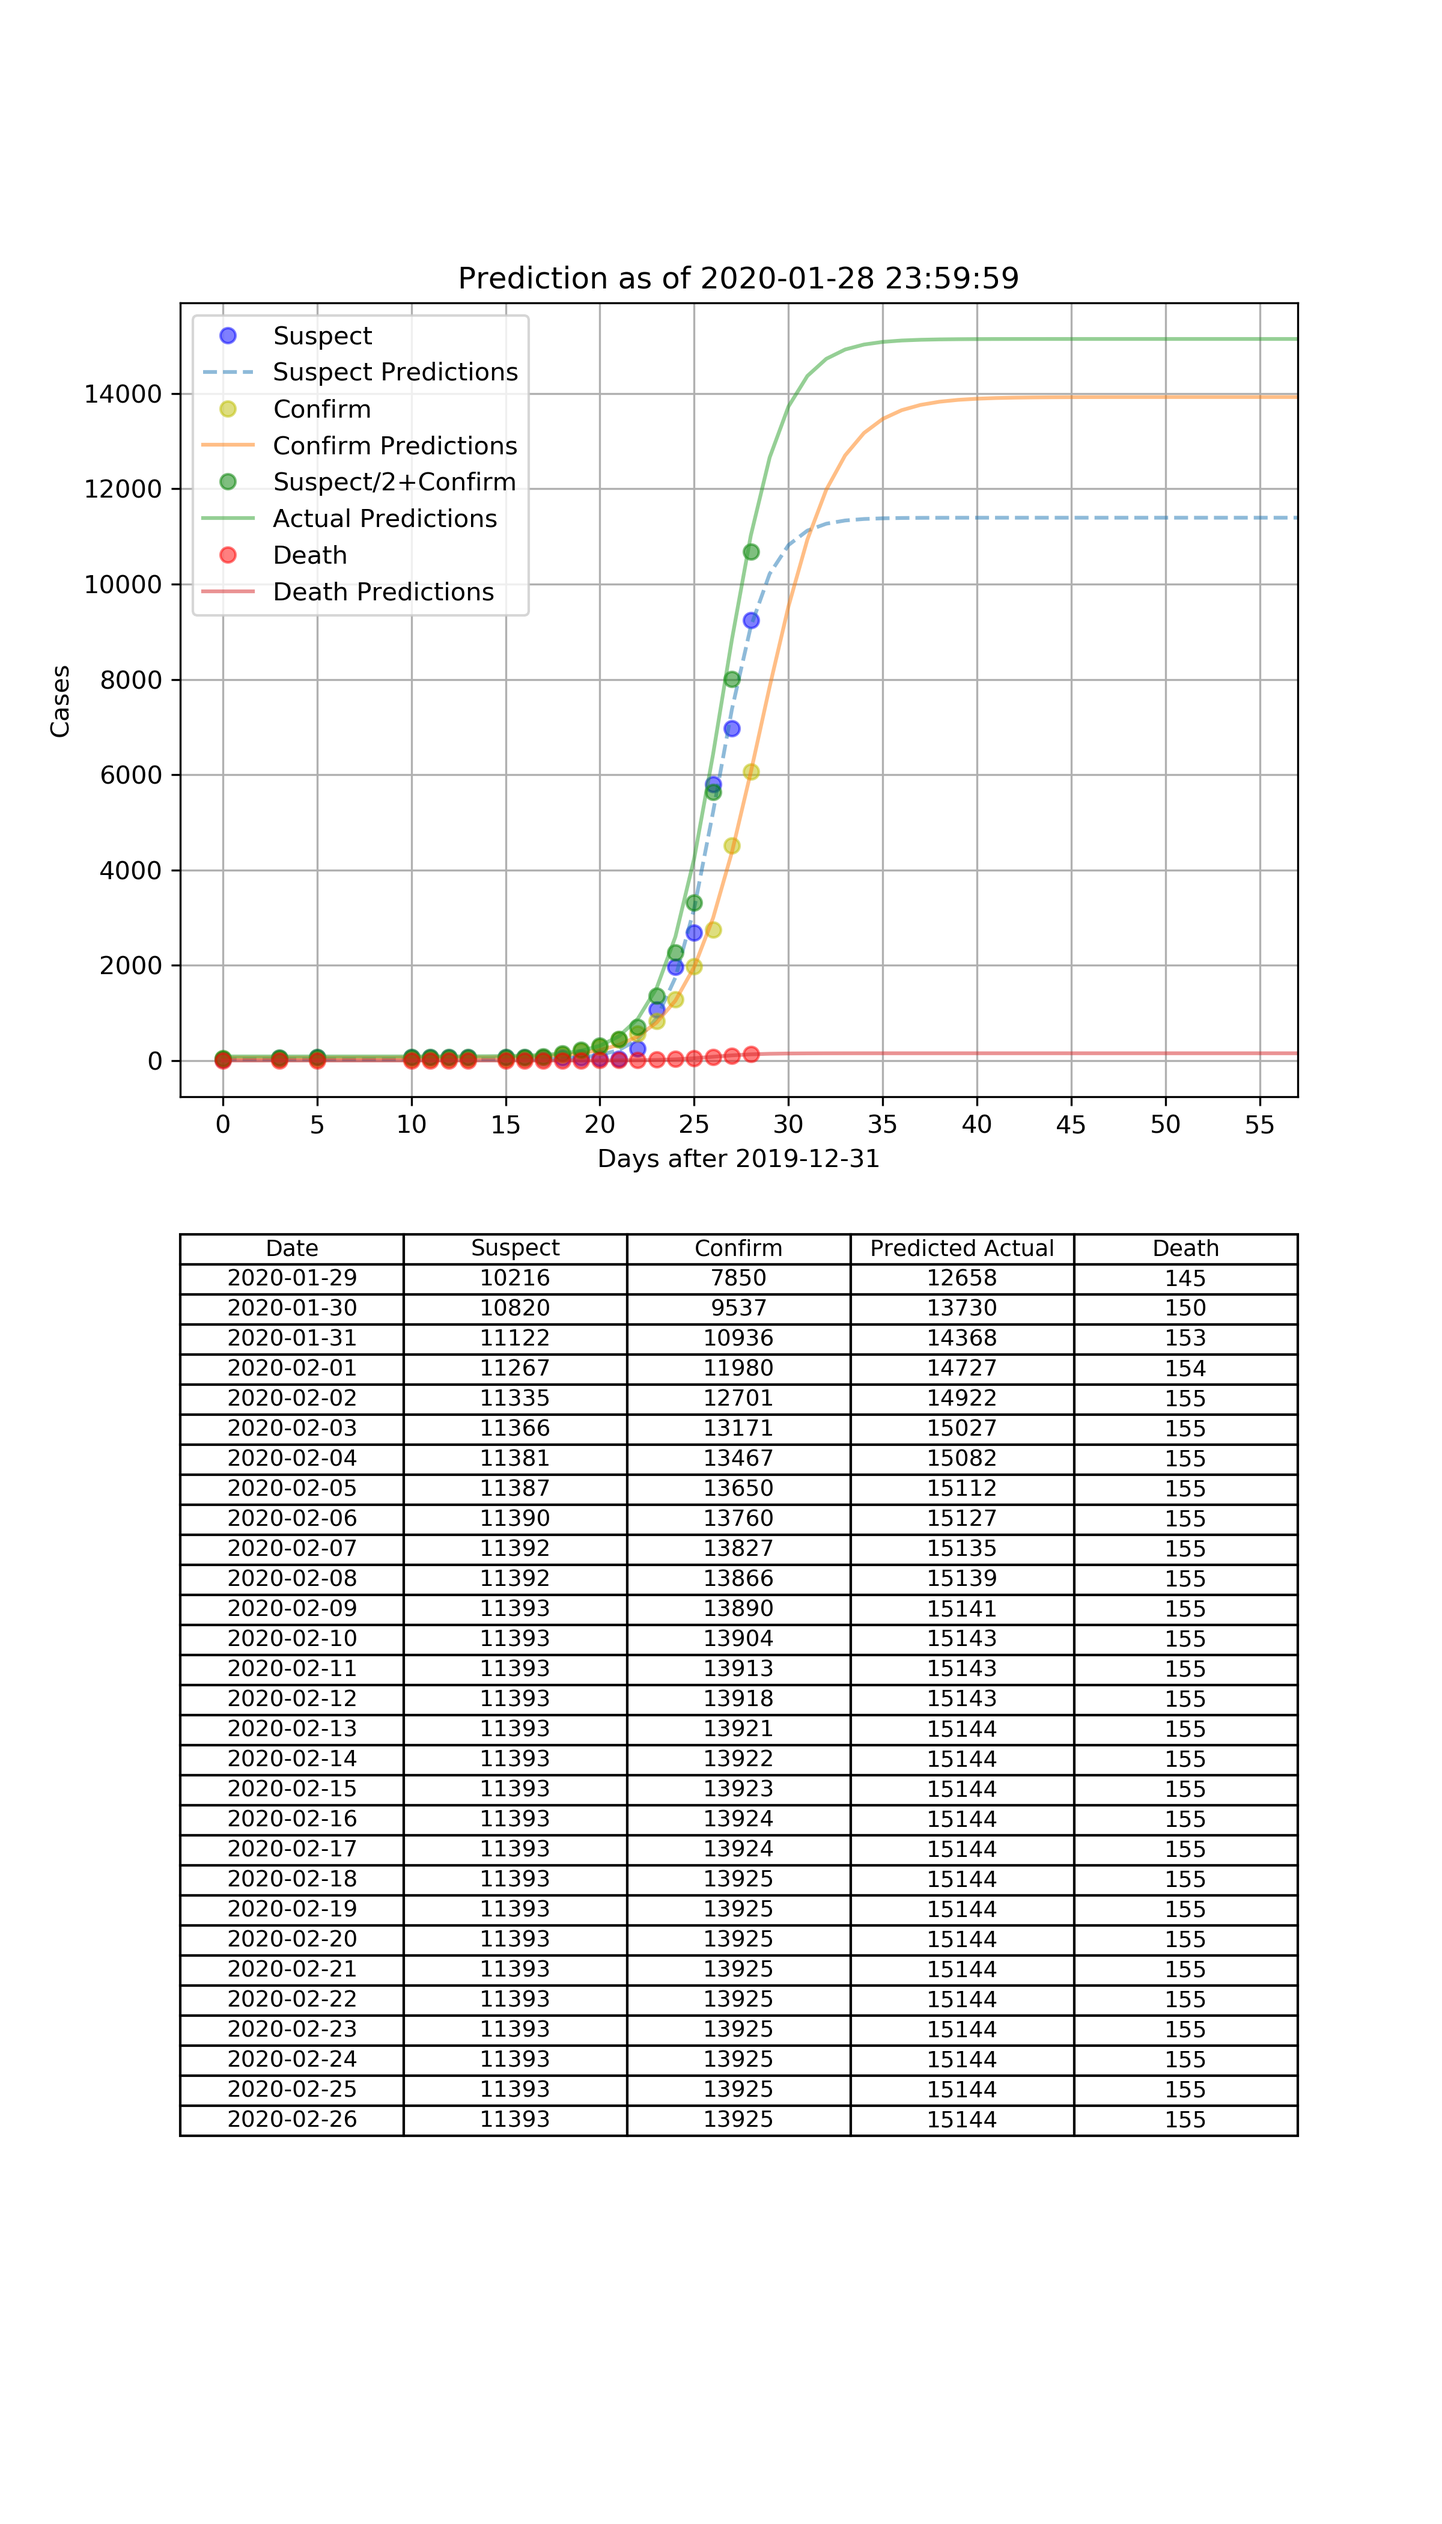
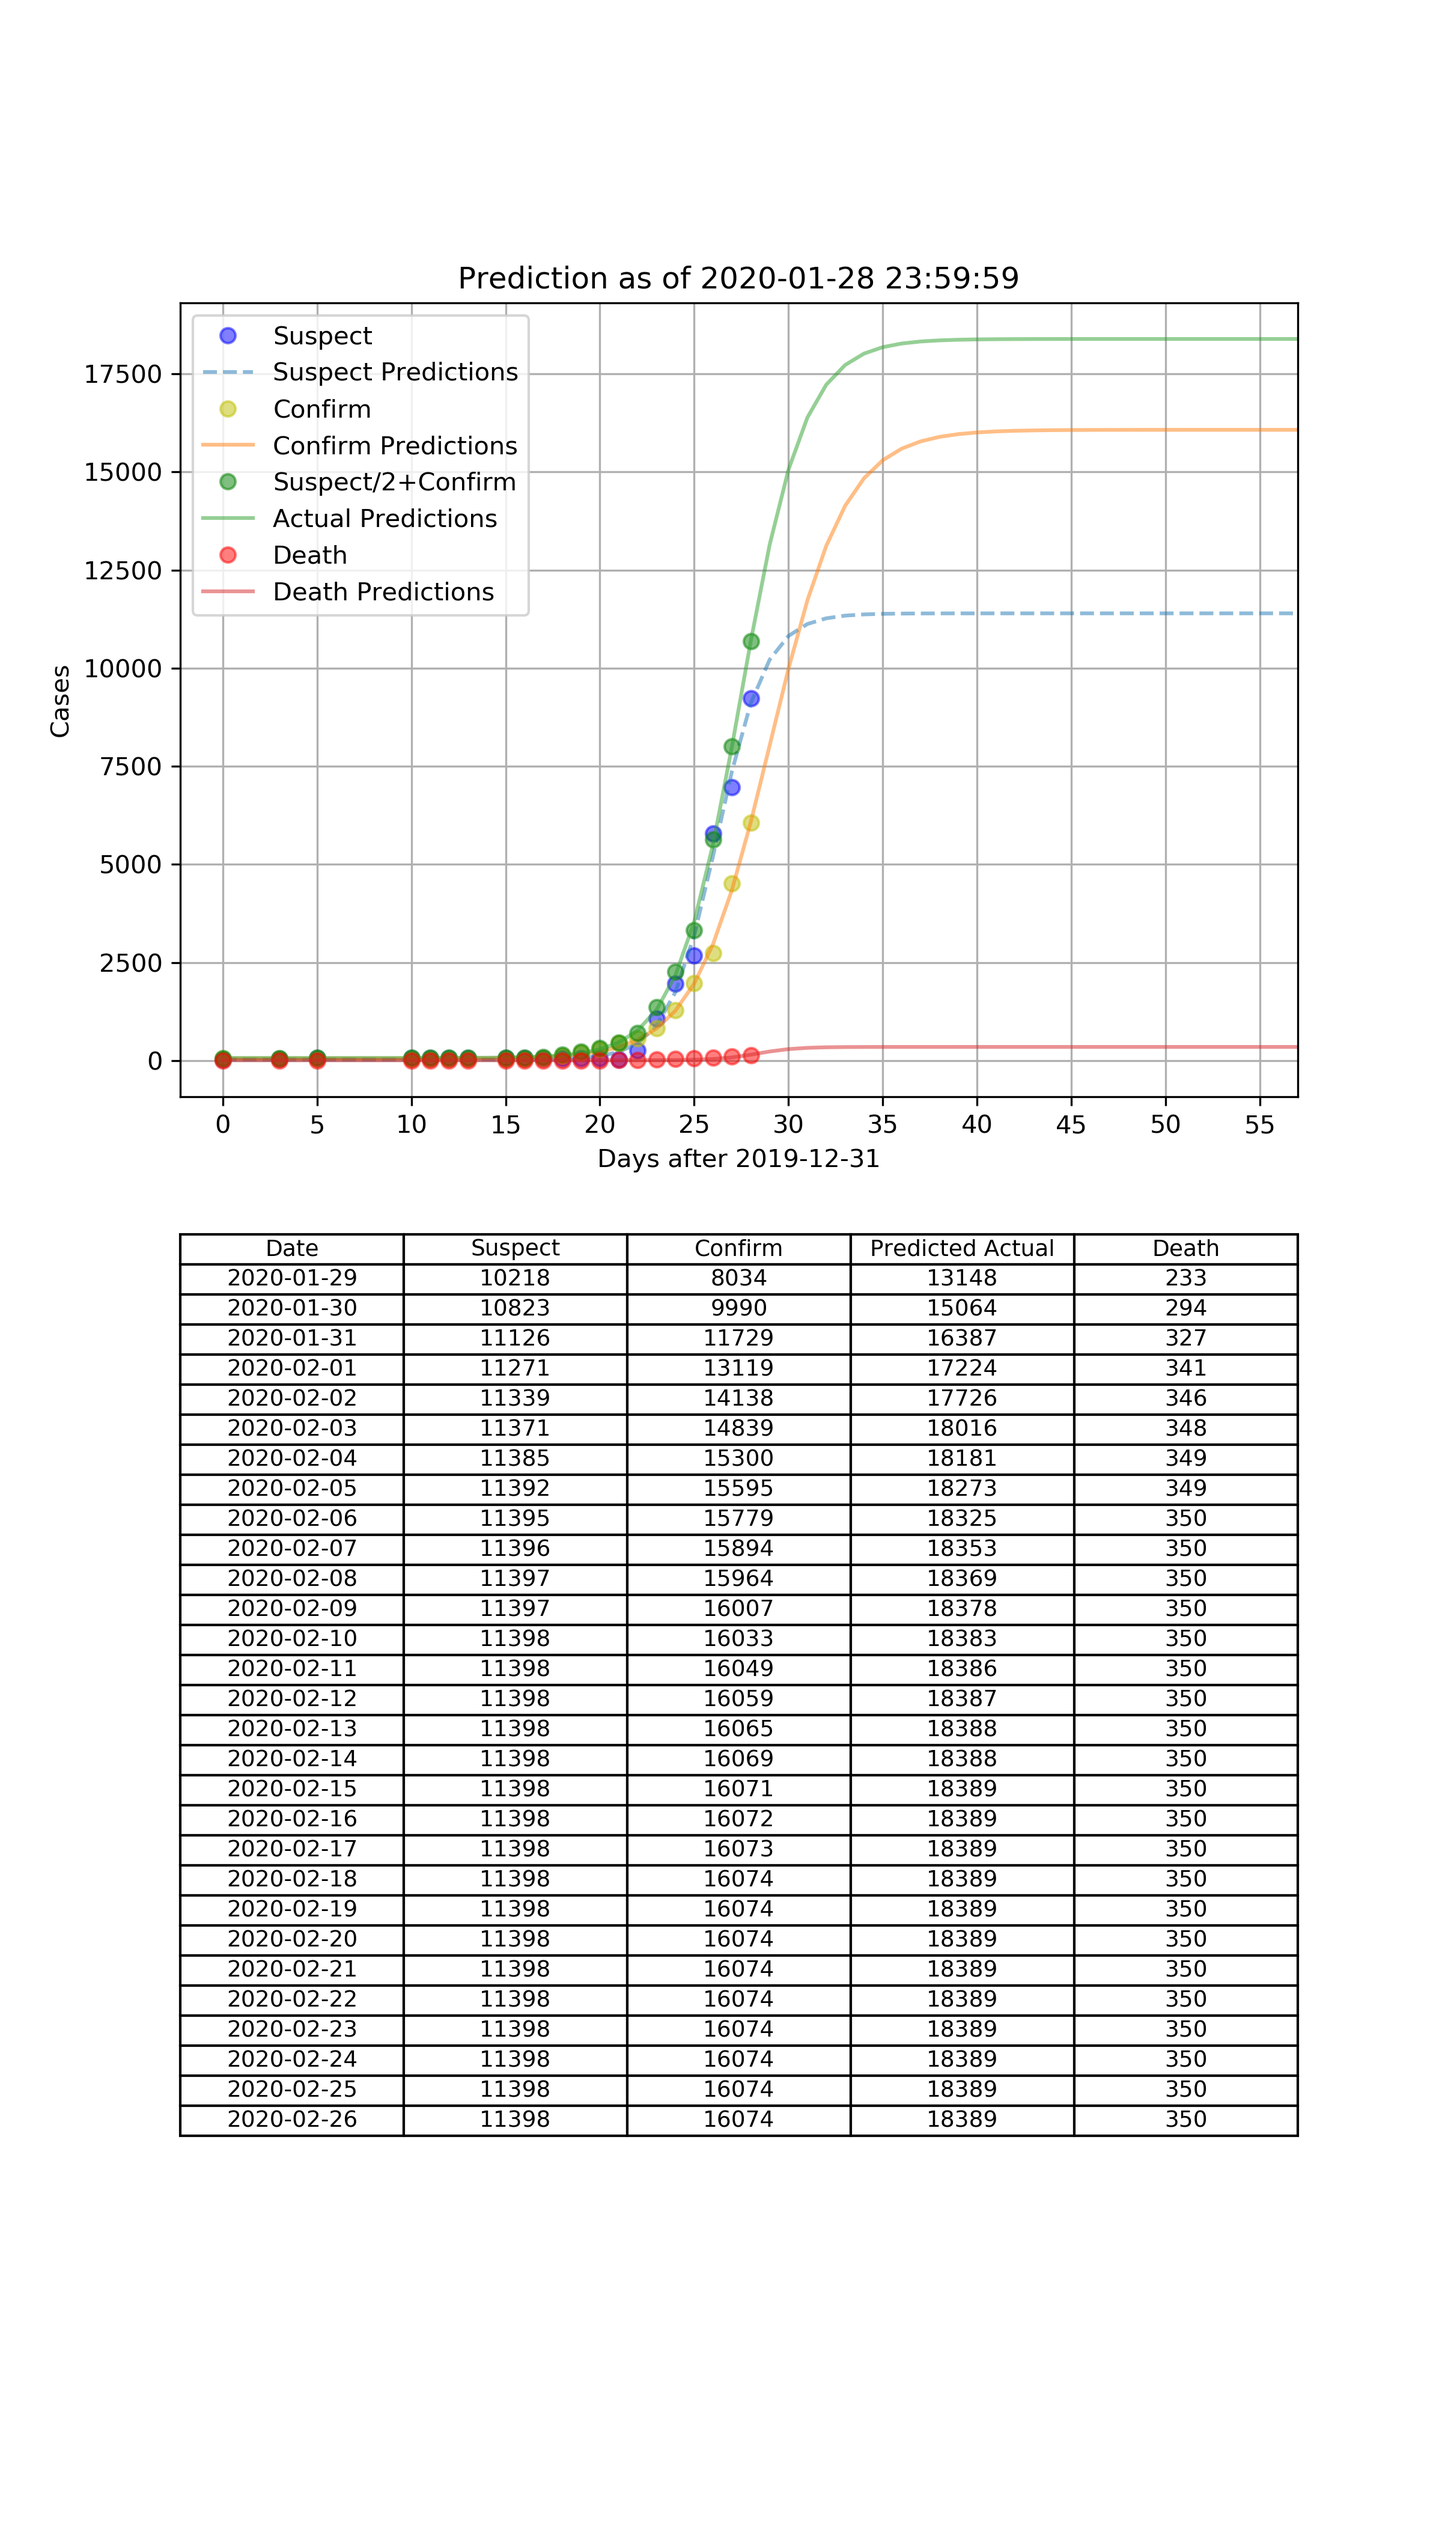
add weight

diff --git a/2019_nCoV.py b/2019_nCoV.py
@@ -41,14 +41,14 @@ class SigmoidRegression(torch.nn.Module):
         return (torch.sigmoid((x - ones * self.x0) * self.k) * self.a + ones * self.b).squeeze()
 
 
-learningRate = 0.03
-epochs = 100000
+learningRate = 0.003
+epochs = 1000000
 
 
 def trainModel(model, X, y):
     model.to(device)
 
-    criterion = torch.nn.MSELoss()
+    # criterion = torch.nn.MSELoss()
     optimizer = torch.optim.SGD(model.parameters(), lr=learningRate)
 
     last_loss = 0
@@ -64,7 +64,8 @@ def trainModel(model, X, y):
         outputs = model(inputs)
 
         # get loss for the predicted output
-        loss = criterion(outputs, labels)
+        # loss = criterion(outputs, labels)
+        loss = torch.mean((inputs ** 0.5) * ((outputs - labels) ** 2))
         # print(loss)
         # get gradients w.r.t to parameters
         loss.backward()
@@ -78,7 +79,7 @@ def trainModel(model, X, y):
         if epoch % 1000 == 0:
             print('epoch {}, loss {}'.format(epoch, loss.item()))
 
-        if (last_loss - loss) ** 2 < 1e-6:
+        if (last_loss - loss) ** 2 < 1e-3:
             early_terminate_counter += 1
         else:
             early_terminate_counter = 0
@@ -111,6 +112,7 @@ with torch.no_grad():  # we don't need gradients in the testing
         cpredicted.append(cModel(torch.from_numpy(np.array([i])).to(device)).cpu().data.numpy().item())
         scP.append(scModel(torch.from_numpy(np.array([i])).to(device)).cpu().data.numpy().item())
         dP.append(dModel(torch.from_numpy(np.array([i])).to(device)).cpu().data.numpy().item())
+
 
 plt.clf()
 plt.rcParams['figure.figsize'] = [8, 14]
